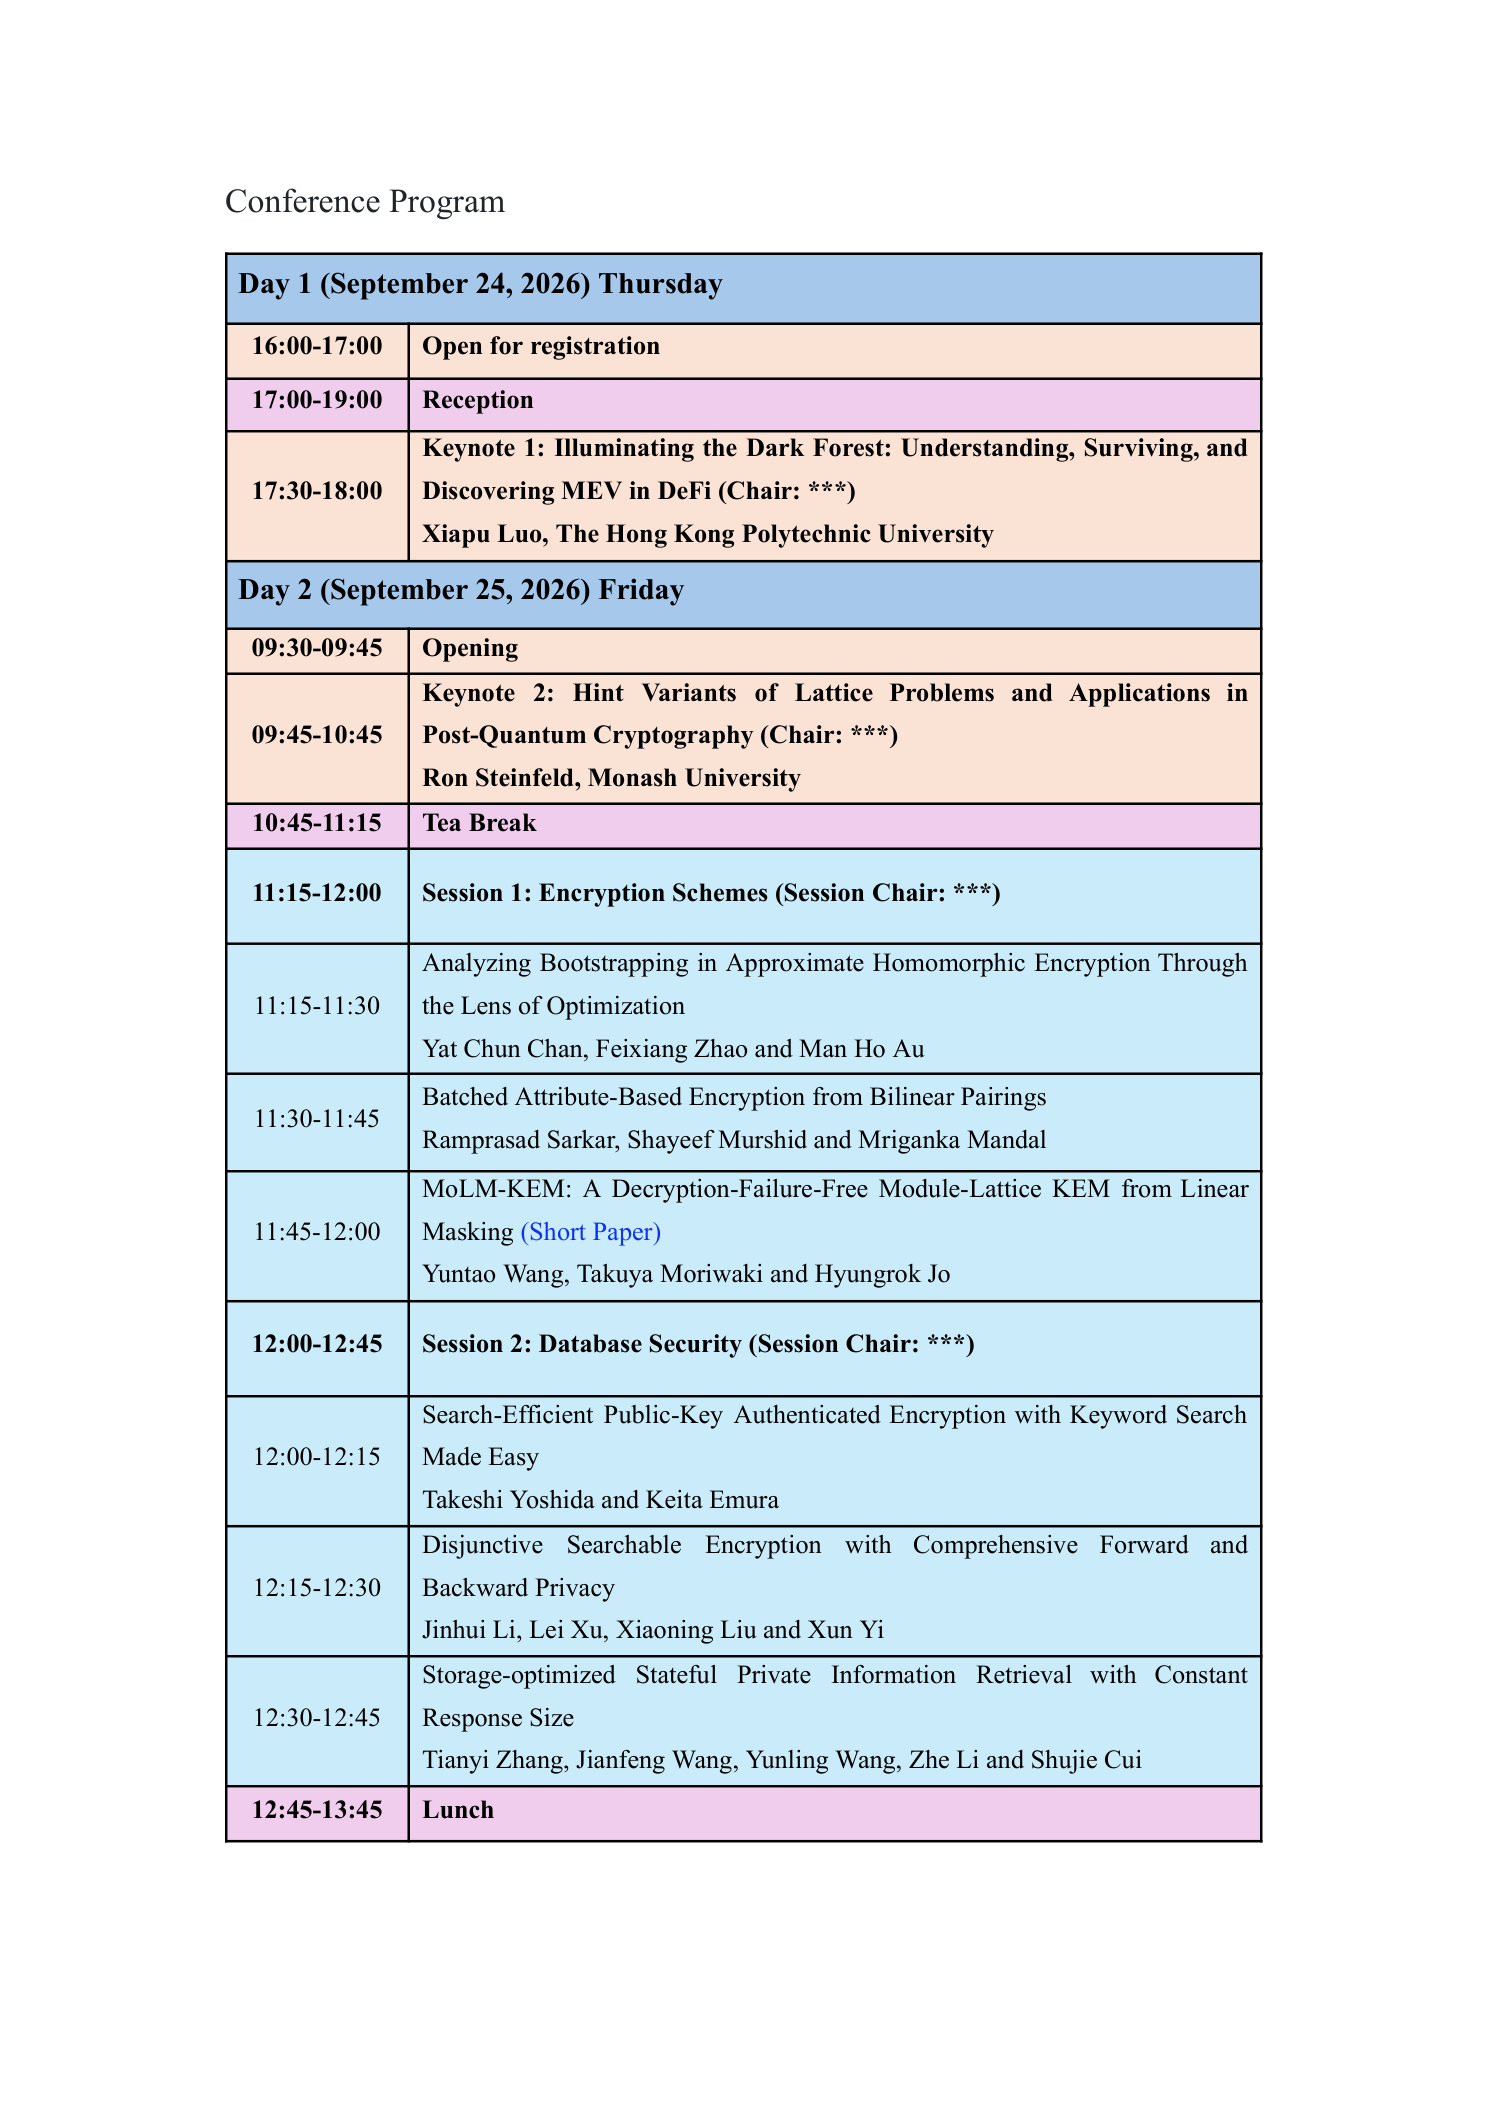
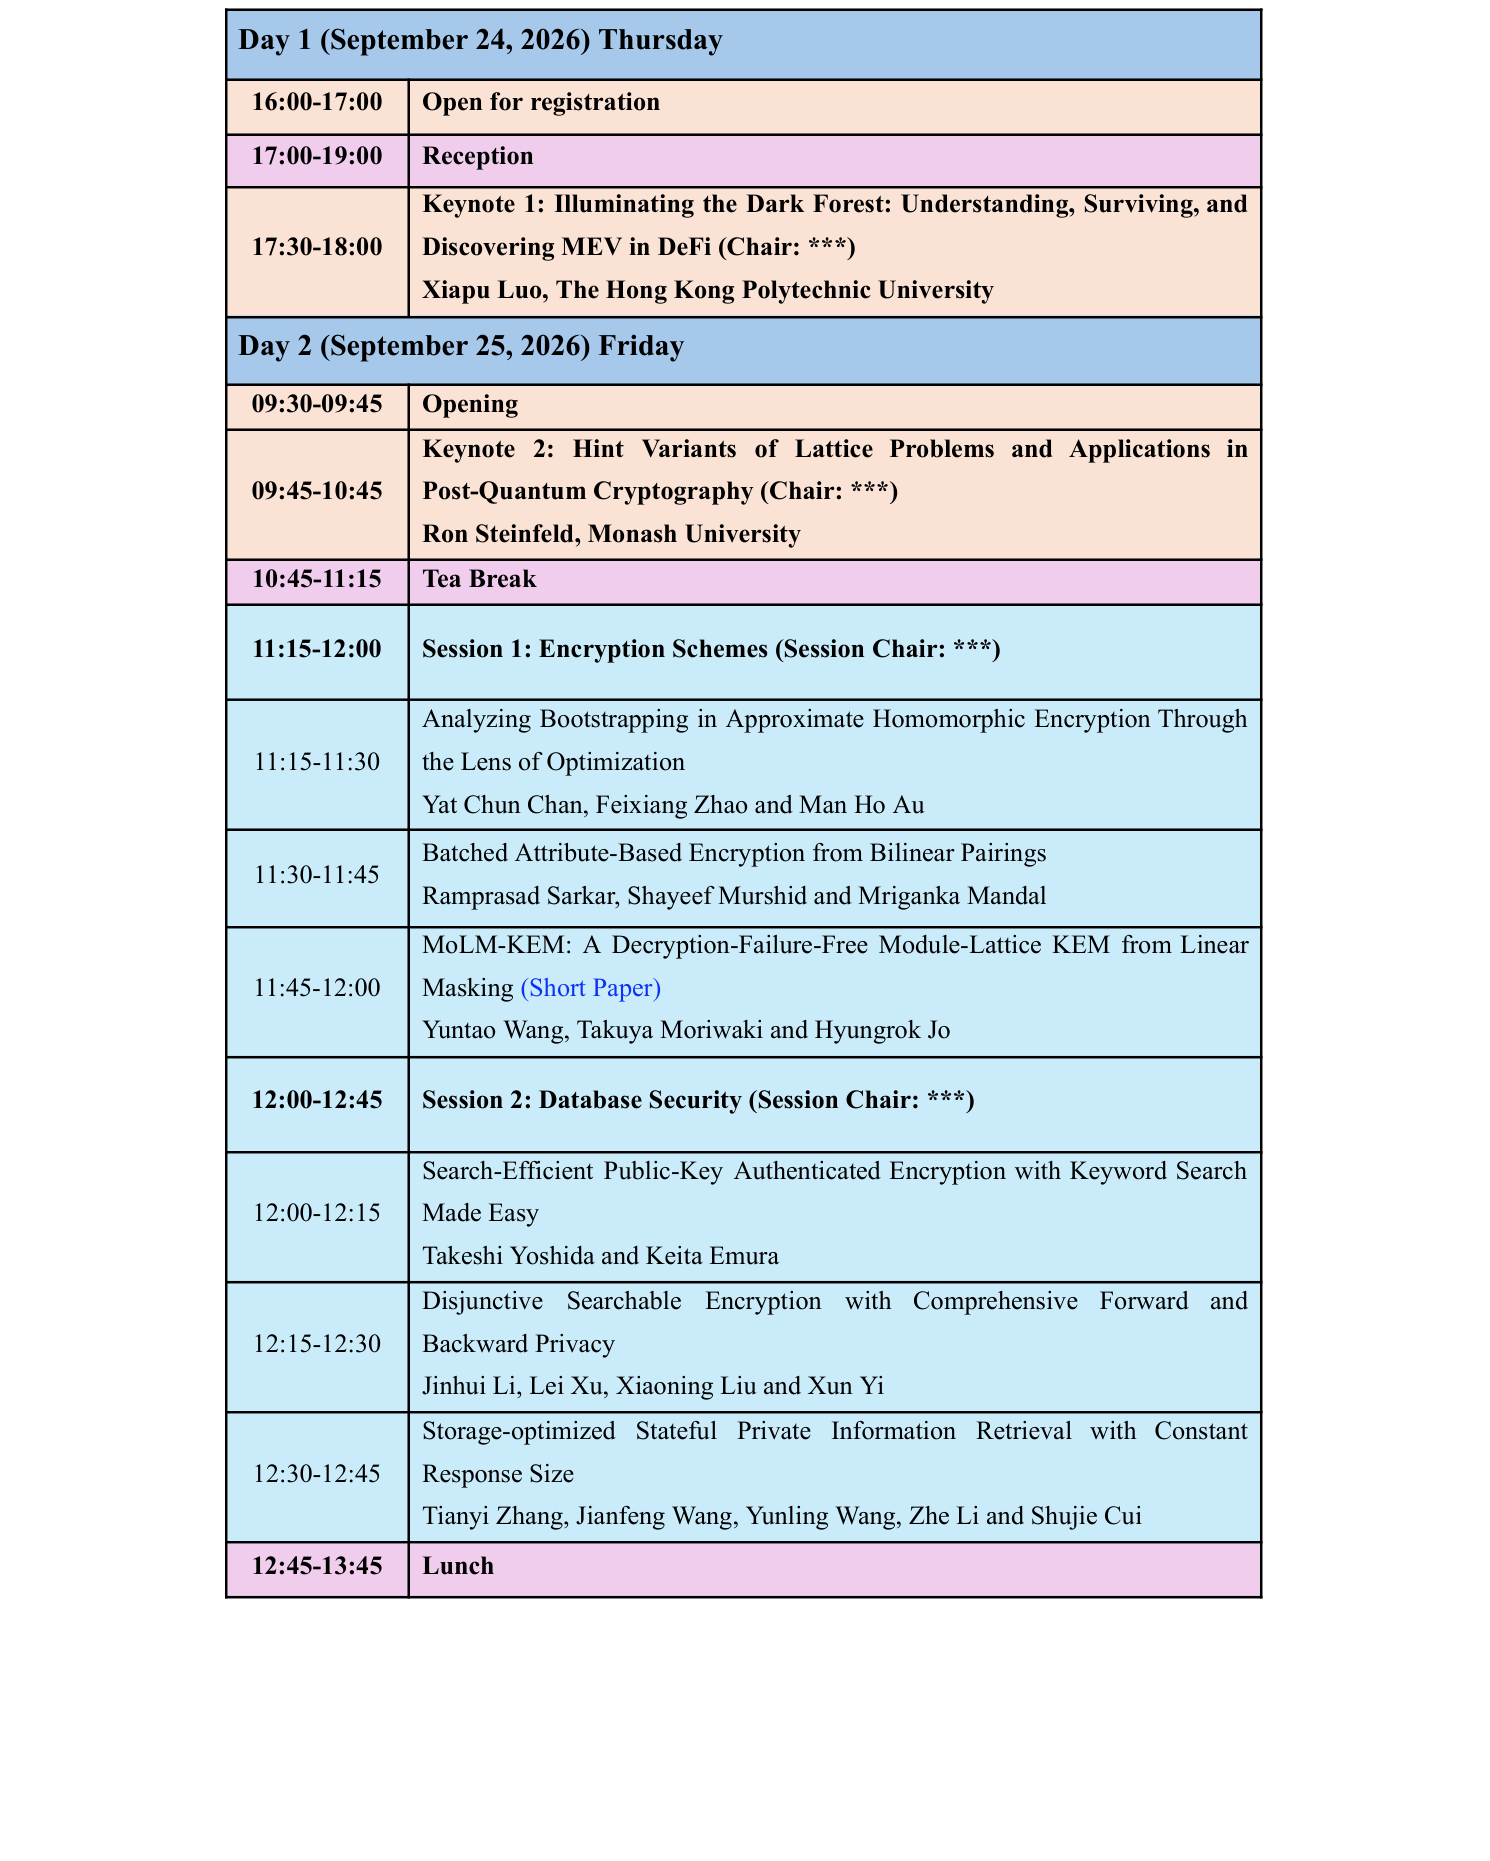
Remove duplicate program title from schedule images

diff --git a/program.html b/program.html
@@ -20,7 +20,7 @@
     <!-- Custom styles for this template -->
     <link href="https://fonts.googleapis.com/css?family=Playfair&#43;Display:700,900&amp;display=swap" rel="stylesheet">
     <!-- Custom styles for this template -->
-    <link href="style.css?v=20" rel="stylesheet">
+    <link href="style.css?v=21" rel="stylesheet">
   </head>
   <body>
     
@@ -47,25 +47,24 @@
 <main class="container program-page">
     <div class="row mb-2">
         <div class="col-12 mt-3">
-          <h2 class="mb-2 fw-bold">Program</h2>
+          <div class="program-schedule-header mb-3">
+            <h2 class="mb-0 fw-bold">Program</h2>
+            <a
+              class="program-download-btn"
+              href="./assets/img/program/ProvSec2026-Program.pdf"
+              target="_blank"
+              rel="noopener noreferrer"
+            >
+              Download PDF
+            </a>
+          </div>
 
           <section class="registration-panel" id="conference-program">
-            <div class="program-schedule-header">
-              <h3 class="registration-section-title mb-0">Conference Schedule</h3>
-              <a
-                class="program-download-btn"
-                href="./assets/img/program/ProvSec2026-Program.pdf"
-                target="_blank"
-                rel="noopener noreferrer"
-              >
-                Download PDF
-              </a>
-            </div>
             <div class="program-pages">
               <figure class="program-page-figure">
                 <img
                   class="img-fluid program-page-img"
-                  src="./assets/img/program/ProvSec2026-Program-p1.png"
+                  src="./assets/img/program/ProvSec2026-Program-p1.png?v=2"
                   alt="ProvSec 2026 conference program, page 1"
                 />
               </figure>
